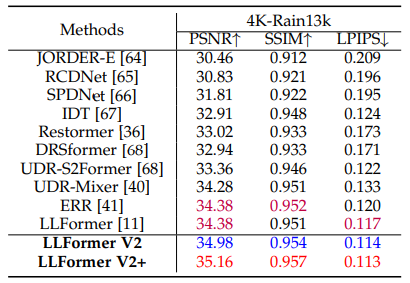
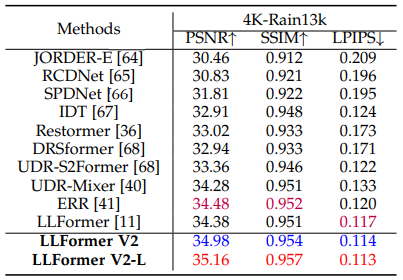
update README.md

Changed region(s): [[0.0, 0.0, 0.9826, 1.0], [0.1191, 0.0571, 0.2978, 0.1429]]

diff --git a/README.md b/README.md
@@ -1,4 +1,4 @@
-## LLFormer V2: Benchmarking and Advancing Transformer-based Method for UHD Low-Light Enhancement
+## LLFormer V2: Illumination-Aware Transformer with Semantic Fusion for UHD Low-Light Image Enhancement and Beyond
 
 
 [Tao Wang](https://scholar.google.com/citations?user=TsDufoMAAAAJ&hl=en), Shenglong Hechen, [Bjorn Stenger](https://scholar.google.com/citations?user=plhjgHUAAAAJ&hl=en), [Tong Lu](https://cs.nju.edu.cn/lutong/index.htm), [Kaihao Zhang](https://scholar.google.com/citations?user=eqwDXdMAAAAJ&hl=en)
@@ -9,17 +9,13 @@
 [![slides](https://img.shields.io/badge/Presentation-Slides-B762C1)](https://arxiv.org/pdf/2212.11548.pdf)
 [![Summary](https://img.shields.io/badge/Summary-Slide-87CEEB)](https://arxiv.org/pdf/2212.11548.pdf) -->
 
->**Abstract:** With the proliferation of ultra-high-definition (UHD) imaging devices, low-light image enhancement (LLIE) faces new challenges in both visual fidelity and computational efficiency. In this work, we introduce a large-scale UHD-LLIE benchmark, UHD-LOL, containing paired 4K and 8K low-light and reference images, and systematically evaluate existing LLIE algorithms under UHD settings. Building upon this benchmark, we propose LLFormer V2, a physically guided Transformer architecture that incorporates Illumination Prior Regularization (IPR) to explicitly embed multi-scale illumination cues into both the self-attention and feed-forward pathways. This physically informed design allows the model to disentangle illumination from reflectance, resulting in natural brightness recovery, robust color constancy, and improved perceptual consistency. To further enhance efficiency and representational power, we redesign the Axis-based Transformer Block into ATB V2, which employs a clustering–dispatching mechanism to adaptively fuse local and global features while maintaining computational tractability. Furthermore, we extend the framework to LLFormer V2+, integrating high-level semantic priors from a frozen pre-trained Large Language Model (LLM) into the bottleneck to facilitate global contextual reasoning. Experimental results across diverse benchmarks demonstrate that the LLFormer V2 series achieve state-of-the-art performance in multiple tasks, such as UHD low-light image enhancement, UHD image deblurring, and UHD image deraining.
-
-
+>**Abstract:** With the proliferation of ultra-high-definition (UHD) imaging devices, low-light image enhancement (LLIE) faces new challenges in both visual fidelity and computational efficiency. In this work, we introduce a large-scale UHD-LLIE benchmark, UHD-LOL, containing paired 4K and 8K low-light and reference images, and systematically evaluate existing LLIE algorithms under UHD settings. Building upon this benchmark, we propose LLFormer V2, a physically guided Transformer architecture that incorporates Illumination Prior Regularization (IPR) to explicitly embed multi-scale illumination cues into both the self-attention and feed-forward pathways. This physically informed design allows the model to disentangle illumination from reflectance, resulting in natural brightness recovery, robust color constancy, and improved perceptual consistency. To further enhance efficiency and representational power, we redesign the Axis-based Transformer Block into ATB V2, which employs a clustering–dispatching mechanism to adaptively fuse local and global features while maintaining computational tractability. Furthermore, we extend the framework to LLFormer V2-L, integrating high-level semantic priors from a frozen pre-trained Large Language Model (LLM) into the bottleneck to facilitate global contextual reasoning. Experimental results across diverse benchmarks demonstrate that the LLFormer V2 series achieve state-of-the-art performance in multiple tasks, such as UHD low-light image enhancement, UHD image deblurring, and UHD image deraining.
 
 <!-- #### News
 - **Jan 11, 2023:** Our paper is selected for an ORAL presentation at AAAI 2023
 - **Dec 24, 2022:** Pre-trained models are released!
 - **Dec 23, 2022:** Codes is released!
 - **Dec 23, 2022:** Homepage is released! -->
-
-
 
 <!-- This repository contains the dataset, code and pre-trained models for our paper. Please refer to our [project page](https://taowangzj.github.io/projects/LLFormer/) for a quick project overview. -->
 
@@ -31,7 +27,7 @@ We create a new large-scale UHD-LLIE dataset called UHDLOL to benchmark the perf
 ## Network Architecture
 ![](figures/LLFormerv2_Architecture.png)
 
-We propose LLFormer V2, an advanced Transformer-based framework for Ultra-High-Definition Low-Light Image Enhancement (UHD-LLIE). At its core, the model employs a Axis-based Transformer Block V2 (ATB V2), which enhances the original axis-based multi-head self-attention mechanism with a novel clustering-dispatching strategy to efficiently fuse local and global features while maintaining computational tractability. The framework also incorporates Illumination Prior Regularization (IPR), a physically-guided module that explicitly embeds multi-scale illumination cues into both the self-attention and feed-forward pathways, enabling more natural illumination recovery and robust color consistency. Furthermore, an extended version named LLFormer V2+ integrates a frozen pre-trained Large Language Model (LLM) into the bottleneck stage, injecting high-level semantic priors to enhance global contextual reasoning without additional training overhead.
+We propose LLFormer V2, an advanced Transformer-based framework for Ultra-High-Definition Low-Light Image Enhancement (UHD-LLIE). At its core, the model employs a Axis-based Transformer Block V2 (ATB V2), which enhances the original axis-based multi-head self-attention mechanism with a novel clustering-dispatching strategy to efficiently fuse local and global features while maintaining computational tractability. The framework also incorporates Illumination Prior Regularization (IPR), a physically-guided module that explicitly embeds multi-scale illumination cues into both the self-attention and feed-forward pathways, enabling more natural illumination recovery and robust color consistency. Furthermore, an extended version named LLFormer V2-L integrates a frozen pre-trained Large Language Model (LLM) into the bottleneck stage, injecting high-level semantic priors to enhance global contextual reasoning without additional training overhead.
 ## Quantitative results
 ### Results on UHD-LOL
 ![](figures/UHDLOL.png)
@@ -74,14 +70,14 @@ You can use the following links to download the datasets
 We provide the pre-trained models under different datasets:
 - LLFormerv2 [Google drive | [Baidu drive](https://pan.baidu.com/s/1-sCNq_nhk1wnt9EGehVs8A?pwd=bw24)].
 
-- LLFormerv2+ [Google drive | [Baidu drive](https://pan.baidu.com/s/1LAmXyT0MfOwOK9iHp_ajnw?pwd=pf12)].
+- LLFormerv2-L [Google drive | [Baidu drive](https://pan.baidu.com/s/1LAmXyT0MfOwOK9iHp_ajnw?pwd=pf12)].
 
 ### Visual comparison results
 We provide the compared visual results. You can download from [[Baidu drive]](https://pan.baidu.com/s/1epdUOJ5ltFpQPeQdi3WJUQ?pwd=9bsb).
 
 ### Test
 You can directly test the pre-trained model as follows
-- Modify the `--option` in `test.sh` to `options/test/LLFormerv2.yml` or `options/test/LLFormerv2+.yml`, depending on the model you want to test.
+- Modify the `--option` in `test.sh` to `options/test/LLFormerv2.yml` if you want to test LLFormerv2, or to `options/test/LLFormerv2+.yml` if you want to test LLFormerv2-L.
 - Specify the data path ```dataroot_gt```, ```dataroot_lq```, and model path ```pretrain_network_g``` in corresponding config files. Then run
 ```bash
 sh test.sh
@@ -119,7 +115,7 @@ sh train.sh
 
 
 ## Citations
-If UHDLOL benchmark and LLFormer help your research or work, please consider citing:
+If UHDLOL benchmark and LLFormer V2 help your research or work, please consider citing:
 
 ```
 @inproceedings{wang2023ultra,
